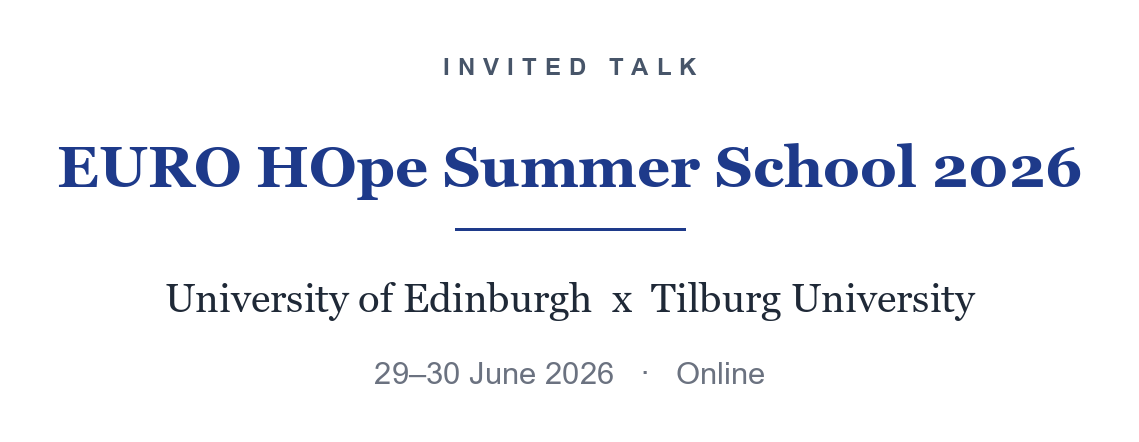
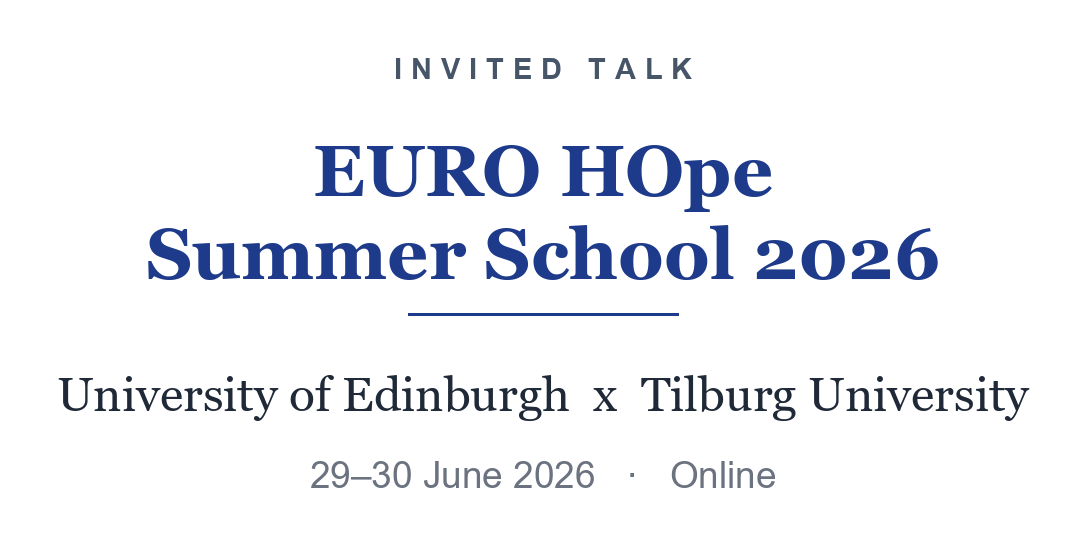
refine(recent): EURO HOpe copy + larger two-line figure
- up to you / with this; drop 'held' as the one-word reduction to clear the orphan line
- regenerate figure with two-line title (EURO HOpe / Summer School 2026) and ~20% larger fonts

diff --git a/index.html b/index.html
@@ -475,9 +475,9 @@
                 <br />
 
                 <p class="card-text" align="justify">
-                  I am deeply grateful to <a href="https://www.business-school.ed.ac.uk/staff/douglas-alem" target="_blank">Douglas Alem</a> (University of Edinburgh) and <a href="https://www.tilburguniversity.edu/staff/t-breugem" target="_blank">Thomas Breugem</a> (Tilburg University) for the invitation to speak at the EURO HOpe Summer School, held online across Edinburgh and Tilburg.
-                  I very much enjoyed speaking with the up-and-coming generation of researchers in humanitarian operations.
-                  The future is up to them! There is so much one can do with powerful methods of operations research and a heart toward changing the world for the better.
+                  I am deeply grateful to <a href="https://www.business-school.ed.ac.uk/staff/douglas-alem" target="_blank">Douglas Alem</a> (University of Edinburgh) and <a href="https://www.tilburguniversity.edu/staff/t-breugem" target="_blank">Thomas Breugem</a> (Tilburg University) for the invitation to speak at the EURO HOpe Summer School, online across Edinburgh and Tilburg.
+                  I very much enjoyed speaking with this up-and-coming generation of researchers in humanitarian operations.
+                  The future is up to you! There is so much one can do with powerful methods of operations research and a heart toward changing the world for the better.
                 </p>
 
                 <a href="https://www.euro-online.org/web/ewg/39/euro-working-group-on-humanitarian-operations-hope" target="_blank" class="btn btn-primary">About EURO HOpe</a>
